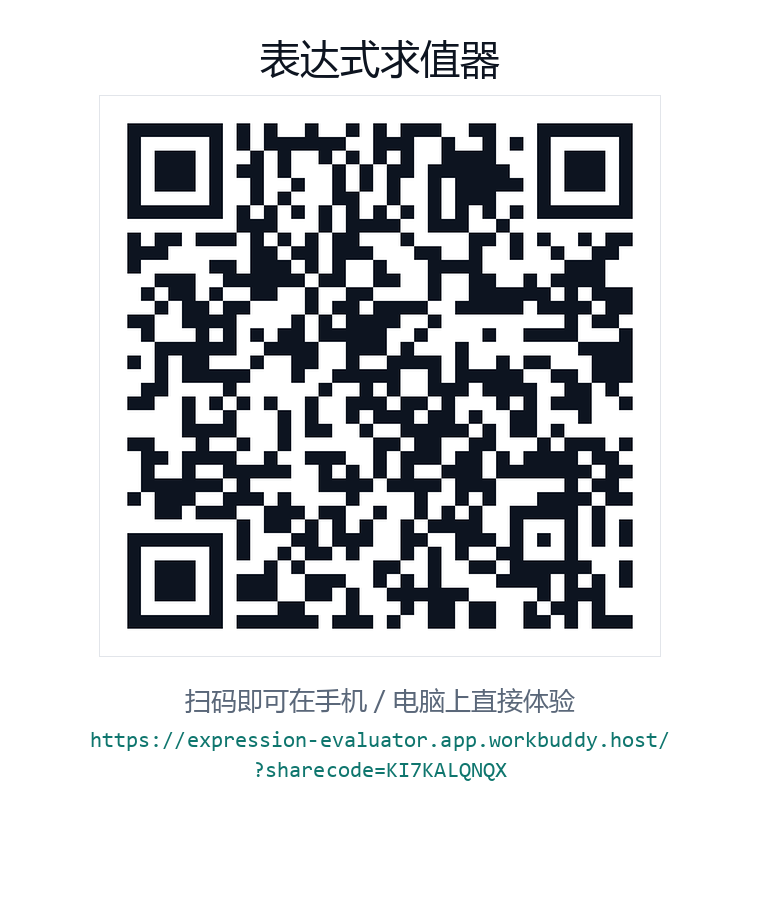
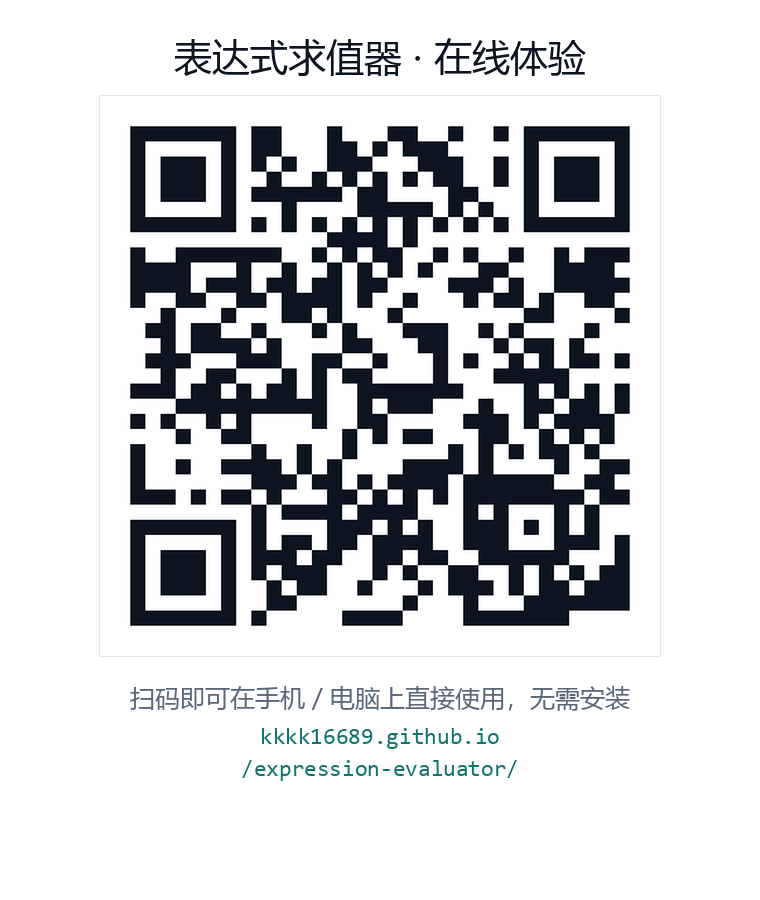
二维码与说明改为指向 GitHub Pages 主链接，补备用链接二维码

Changed region(s): [[0.1513, 0.1244, 0.8474, 0.7156], [0.1211, 0.7467, 0.8776, 0.8711], [0.2421, 0.0311, 0.7868, 0.0933]]

diff --git a/报告素材/说明.md b/报告素材/说明.md
@@ -2,11 +2,16 @@
 
 ## 一、在线体验
 
-**链接**：https://expression-evaluator.app.workbuddy.host/?sharecode=KI7KALQNQX
+**主链接（GitHub Pages）**：https://kkkk16689.github.io/expression-evaluator/
+
+**备用链接**：https://expression-evaluator.app.workbuddy.host/?sharecode=KI7KALQNQX
+
+**源码仓库**：https://github.com/KKKK16689/expression-evaluator
 
 **二维码**：`二维码卡片.png`（整张卡片直接贴进报告即可，含标题与链接）
 
-老师扫码或点开链接，就能在手机 / 电脑上直接按键体验，无需安装任何东西。
+两个链接都是公开的：任何人拿到链接就能打开，不用登录、不用注册、不用装东西。
+主链接长期有效；万一学校网络访问 GitHub 慢，用备用链接或离线包。
 
 ## 二、图注（可直接粘贴到报告）
 
@@ -32,11 +37,13 @@
 
 | 文件 | 用途 |
 |---|---|
-| `二维码卡片.png` | 贴封面或"运行结果"章节，扫码体验 |
+| `二维码卡片.png` | 贴封面或"运行结果"章节，扫码体验（指向 GitHub Pages） |
 | `二维码-扫码体验.png` | 只要二维码本体（无文字），自己排版时用 |
+| `二维码-备用链接.png` | 备用地址的二维码，GitHub 打不开时用 |
 | `四种状态合集.png` | 2×2 四状态合集，一图说明全流程 |
 | `s1-初始态.png` 等 4 张 | 单张原图，1440×960，适合单独配图 |
-| `../index.html` | 可运行页面本体，可随报告打包提交 |
+| `表达式求值器-离线版.zip` | 9.9 KB，解压后双击 HTML 即可用，不依赖网络 |
+| `../index.html` | 可运行页面本体 |
 | `../test.js` | 算法自检脚本，`node test.js` 可复跑 |
 
 ## 五、给老师的一句话提示
